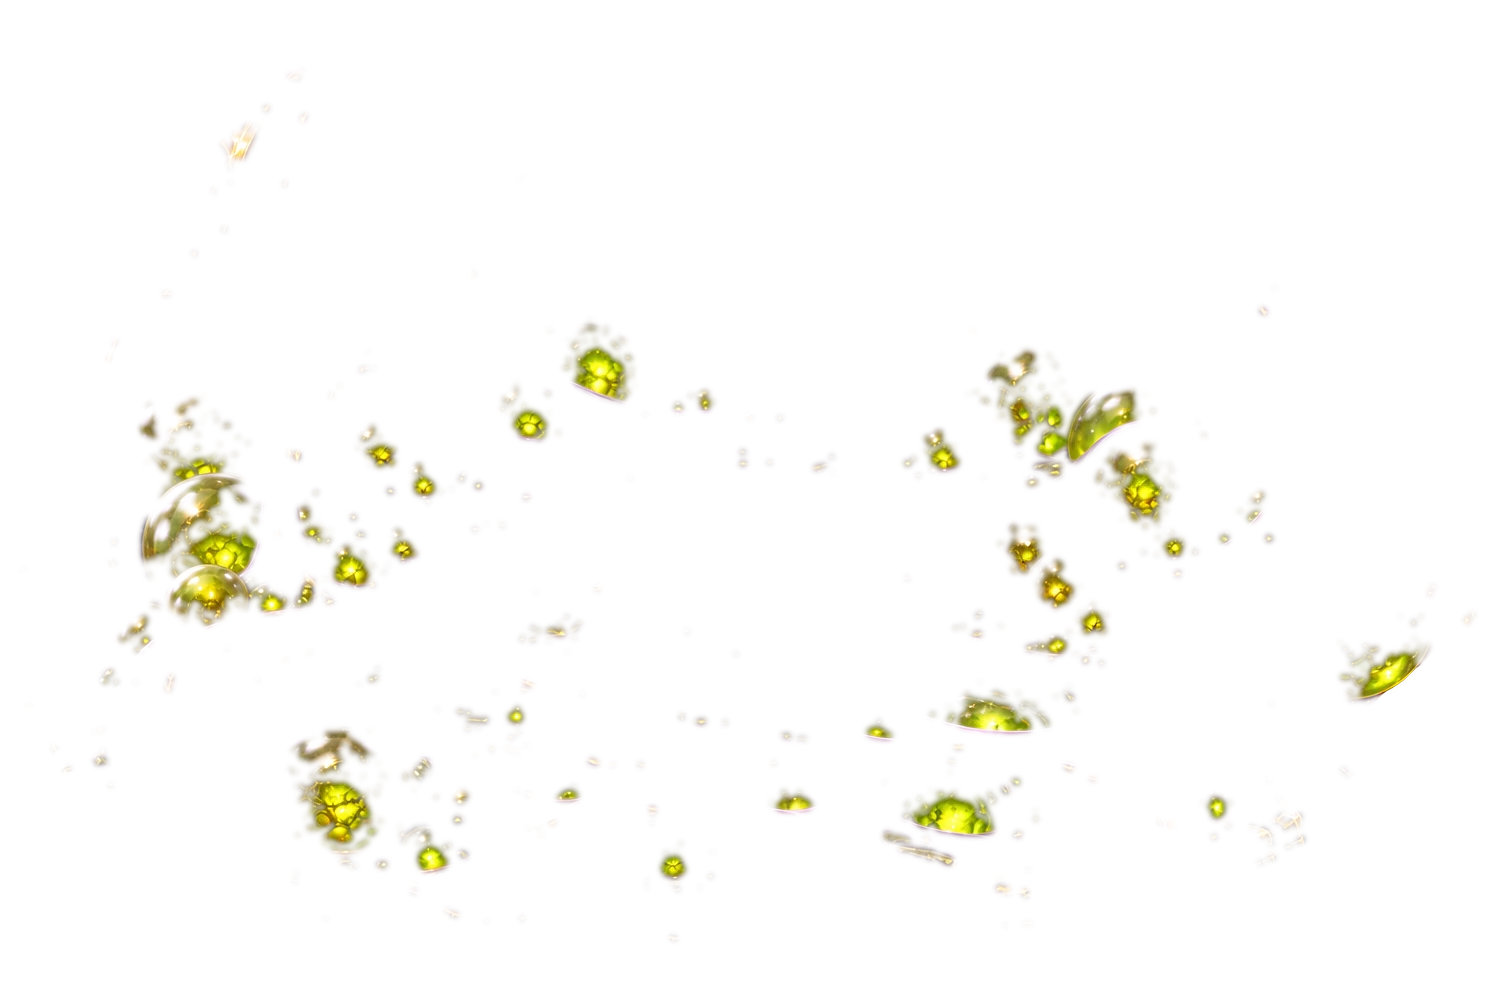
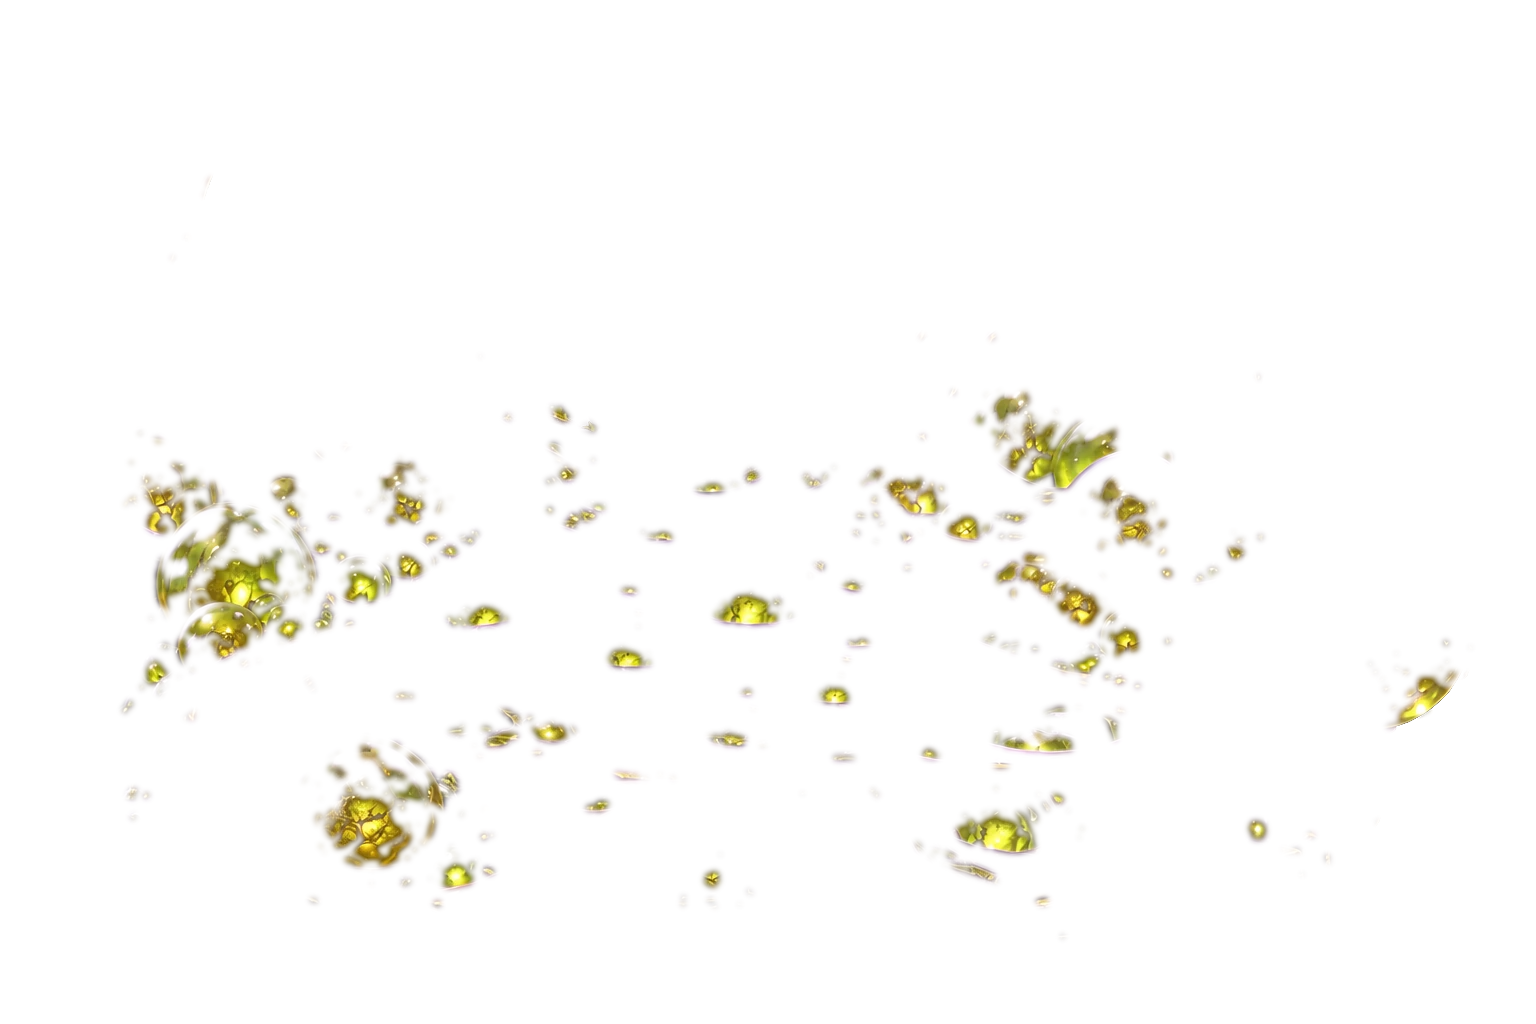
Enjambre: plataforma nueva grande envolviendo al personaje, como la referencia de Andreé
Claude-Session: https://claude.ai/code/session_01F2cMaVP1jXDcnxjASp53K6

diff --git a/enjambre/index.html b/enjambre/index.html
@@ -674,7 +674,7 @@ body.con-maqueta #maqueta{width:100%;flex:none;margin:0}
 body.con-maqueta #mq-escenario{display:none!important}
 body.con-maqueta:has(#v-hive.on) .mq-tutor{top:min(45.096vw,calc(100vh - 10.203vw - 14px))!important}
 body.con-maqueta:has(#v-hive.on) .mq-progreso{top:min(30.44vw,calc(100vh - 19.504vw - 2px))!important}
-body.con-maqueta:has(#v-hive.on) .mq-personaje{top:min(22.548vw,calc(100vh - 28.749vw - 3vw))!important}
+body.con-maqueta:has(#v-hive.on) .mq-personaje{top:min(21.477vw,calc(100vh - 25.03vw + 0.4vw))!important}
 .inv-huevos{position:relative;margin:0 0 28px;border-radius:18px;overflow:hidden;--s:.8}
 .inv-huevos>img{display:block;width:100%;aspect-ratio:1936/544;object-fit:cover;filter:hue-rotate(28deg) saturate(1.15) brightness(.7)}
 .inv-huevos .mq-huevos{position:absolute;left:50%;top:50%;transform:translate(-50%,-50%);width:min(94%,1000px);display:flex;flex-wrap:wrap;justify-content:center;gap:6px 14px;padding:14px 20px;
@@ -786,7 +786,7 @@ body.con-maqueta:has(#v-hive.on) .mq-personaje{top:min(22.548vw,calc(100vh - 28.
 #maqueta .mq-rot{transform:translate(calc(-50% + var(--px,0)*7px),calc(-.56em + var(--py,0)*4px));transition:transform .9s cubic-bezier(.2,.7,.2,1)}
 /* reloj de costado, recostado sobre los huevos */
 @media (prefers-reduced-motion:reduce){#maqueta .mq-conex,#maqueta .mq-objetos,#maqueta .mq-larvas,#maqueta .mq-org,#maqueta .mq-red-sombra{transform:none}}
-.mq-plataforma{position:absolute;left:5.4%;top:38.6%;width:75.4%;height:auto;pointer-events:none;user-select:none}
+.mq-plataforma{position:absolute;left:-13.5%;top:-7.3%;width:138.8%;height:auto;pointer-events:none;user-select:none}
 .mq-plat-orbes{mix-blend-mode:screen;animation:mqOrbes 3.4s ease-in-out infinite}
 @keyframes mqOrbes{0%,100%{opacity:.15;filter:brightness(1)}50%{opacity:.85;filter:brightness(1.5) drop-shadow(0 0 6px rgba(140,222,70,.8))}}
 @media (prefers-reduced-motion:reduce){.mq-plat-orbes{animation:none;opacity:.3}}

diff --git a/enjambre/personaje.js b/enjambre/personaje.js
@@ -11,7 +11,7 @@ const reducido = matchMedia('(prefers-reduced-motion: reduce)').matches;
 
 // abajo a la izquierda, donde antes estaba «Evolución de la colonia», mirando hacia el mapa.
 // Coordenadas de la imagen de la maqueta (1774×887); baja un poco más allá del borde, sobre una franja propia.
-const ZONA = { x: -20, y: 400, w: 690, h: 510 };
+const ZONA = { x: 78, y: 381, w: 600, h: 444 };
 const escenario = document.createElement('div');   // franja bajo el mapa: deja sitio al tutor y al personaje
 escenario.id = 'mq-escenario';
 escenario.setAttribute('aria-hidden', 'true');
